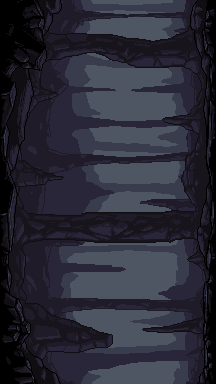
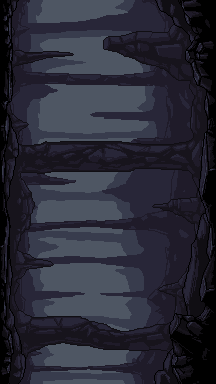
Add scrolling background

diff --git a/src/slime_fall/lib/Class Library/components/background.dart b/src/slime_fall/lib/Class Library/components/background.dart
@@ -1,20 +1,23 @@
 import 'package:flame/components.dart';
-import 'package:flame/flame.dart';
+import 'package:flutter/material.dart';
 import 'package:slime_fall/Constants/assets.dart';
+import 'package:flame/parallax.dart';
+import 'package:slime_fall/Constants/configuration.dart';
 import 'package:slime_fall/class%20library/game/slime_fall_game.dart';
 
-class Background extends SpriteComponent with HasGameRef<SlimeFallGame> { 
-
-  // constructor
-  Background();
+class Background extends ParallaxComponent<SlimeFallGame> { 
 
   @override
   Future<void> onLoad() async{
-    final background = await Flame.images.load(Assets.background);
-
-    // Haalt de grote van scherm uit de game reference mixin (HasGameRef<SlimeFallGame>). 
-    // Deze mixin zal ons toegang geven tot verschillende properties van de game.
-    size = gameRef.size;
-    sprite = Sprite(background);
+      parallax = await game.loadParallax(
+      [
+        ParallaxImageData(Assets.background),
+      ],
+      // Make sure to repeat on y-axis or a black background will persist after the first scrolling
+      repeat: ImageRepeat.repeatY,
+      // Set Speed
+      baseVelocity: Vector2(0, Config.backGroundScrollSpeed),
+      velocityMultiplierDelta: Vector2(1.7, 1.0),
+    );
   }
 }

diff --git a/src/slime_fall/lib/main.dart b/src/slime_fall/lib/main.dart
@@ -1,3 +1,4 @@
+import 'package:flame/flame.dart';
 import 'package:flame/game.dart';
 import 'package:flutter/material.dart';
 import 'package:slime_fall/class%20library/game/slime_fall_game.dart';
@@ -5,6 +6,9 @@ import 'package:slime_fall/class%20library/game/slime_fall_game.dart';
 final slimeGame = SlimeFallGame();
 
 void main() {
+
   runApp(GameWidget(game: slimeGame),);
+  Flame.device.fullScreen();
+  Flame.device.setPortraitUpOnly();
 }
 

diff --git a/src/slime_fall/lib/Class Library/game/slime_fall_game.dart b/src/slime_fall/lib/Class Library/game/slime_fall_game.dart
@@ -2,7 +2,6 @@ import 'package:flame/game.dart';
 import 'package:slime_fall/class%20library/components/background.dart';
 
 class SlimeFallGame extends FlameGame {
-
   @override
   Future<void> onLoad() async {
     add(Background());

diff --git a/src/slime_fall/lib/Constants/configuration.dart b/src/slime_fall/lib/Constants/configuration.dart
@@ -1,0 +1,3 @@
+class Config {
+  static const backGroundScrollSpeed = 100.0;
+}
